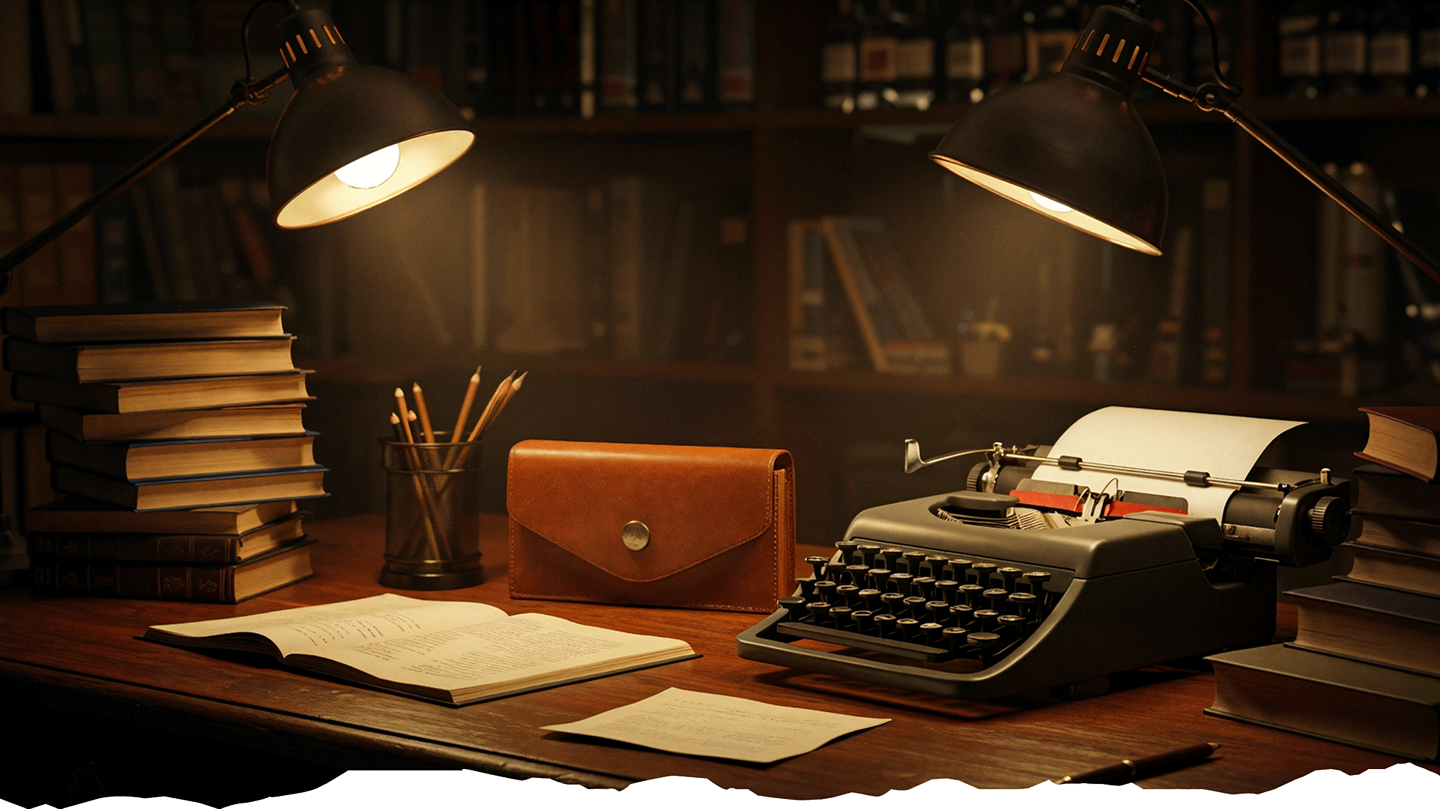
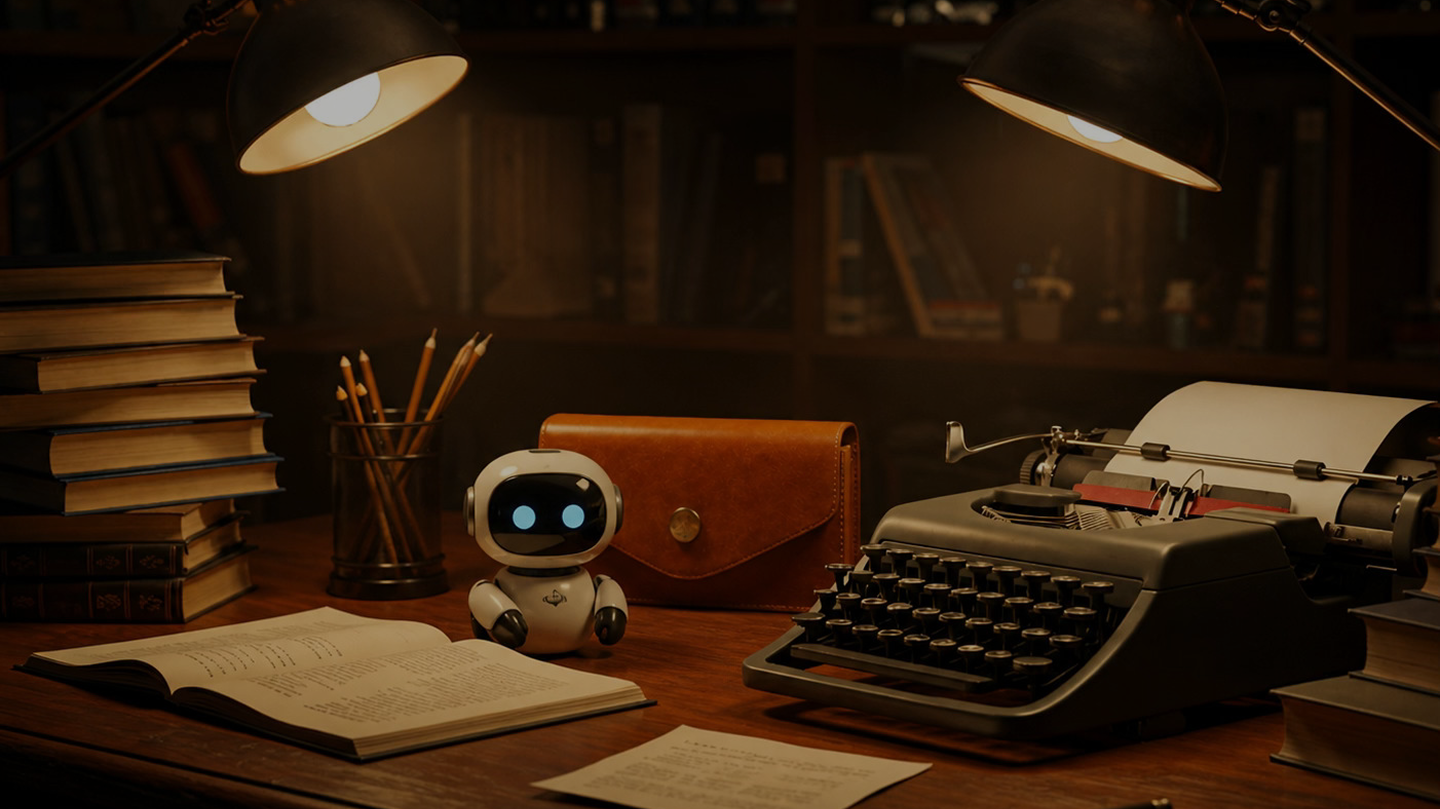
Updates

diff --git a/404.html b/404.html
@@ -176,8 +176,8 @@
         if (canonical) canonical.setAttribute("href", currentUrl);
       })();
     </script>
-    <script type="module" crossorigin src="/assets/index-DqFhm3mM.js"></script>
-    <link rel="stylesheet" crossorigin href="/assets/index-CtCVAtJx.css">
+    <script type="module" crossorigin src="/assets/index-DrxcV7wq.js"></script>
+    <link rel="stylesheet" crossorigin href="/assets/index-86hxumuY.css">
   </head>
   <body>
     <script>

diff --git a/index.html b/index.html
@@ -176,8 +176,8 @@
         if (canonical) canonical.setAttribute("href", currentUrl);
       })();
     </script>
-    <script type="module" crossorigin src="/assets/index-DqFhm3mM.js"></script>
-    <link rel="stylesheet" crossorigin href="/assets/index-CtCVAtJx.css">
+    <script type="module" crossorigin src="/assets/index-DrxcV7wq.js"></script>
+    <link rel="stylesheet" crossorigin href="/assets/index-86hxumuY.css">
   </head>
   <body>
     <div id="root"></div>

diff --git a/assets/index-86hxumuY.css b/assets/index-86hxumuY.css
@@ -1,0 +1,1 @@
+*,:before,:after{--tw-border-spacing-x: 0;--tw-border-spacing-y: 0;--tw-translate-x: 0;--tw-translate-y: 0;--tw-rotate: 0;--tw-skew-x: 0;--tw-skew-y: 0;--tw-scale-x: 1;--tw-scale-y: 1;--tw-pan-x: ;--tw-pan-y: ;--tw-pinch-zoom: ;--tw-scroll-snap-strictness: proximity;--tw-gradient-from-position: ;--tw-gradient-via-position: ;--tw-gradient-to-position: ;--tw-ordinal: ;--tw-slashed-zero: ;--tw-numeric-figure: ;--tw-numeric-spacing: ;--tw-numeric-fraction: ;--tw-ring-inset: ;--tw-ring-offset-width: 0px;--tw-ring-offset-color: #fff;--tw-ring-color: rgb(59 130 246 / .5);--tw-ring-offset-shadow: 0 0 #0000;--tw-ring-shadow: 0 0 #0000;--tw-shadow: 0 0 #0000;--tw-shadow-colored: 0 0 #0000;--tw-blur: ;--tw-brightness: ;--tw-contrast: ;--tw-grayscale: ;--tw-hue-rotate: ;--tw-invert: ;--tw-saturate: ;--tw-sepia: ;--tw-drop-shadow: ;--tw-backdrop-blur: ;--tw-backdrop-brightness: ;--tw-backdrop-contrast: ;--tw-backdrop-grayscale: ;--tw-backdrop-hue-rotate: ;--tw-backdrop-invert: ;--tw-backdrop-opacity: ;--tw-backdrop-saturate: ;--tw-backdrop-sepia: ;--tw-contain-size: ;--tw-contain-layout: ;--tw-contain-paint: ;--tw-contain-style: }::backdrop{--tw-border-spacing-x: 0;--tw-border-spacing-y: 0;--tw-translate-x: 0;--tw-translate-y: 0;--tw-rotate: 0;--tw-skew-x: 0;--tw-skew-y: 0;--tw-scale-x: 1;--tw-scale-y: 1;--tw-pan-x: ;--tw-pan-y: ;--tw-pinch-zoom: ;--tw-scroll-snap-strictness: proximity;--tw-gradient-from-position: ;--tw-gradient-via-position: ;--tw-gradient-to-position: ;--tw-ordinal: ;--tw-slashed-zero: ;--tw-numeric-figure: ;--tw-numeric-spacing: ;--tw-numeric-fraction: ;--tw-ring-inset: ;--tw-ring-offset-width: 0px;--tw-ring-offset-color: #fff;--tw-ring-color: rgb(59 130 246 / .5);--tw-ring-offset-shadow: 0 0 #0000;--tw-ring-shadow: 0 0 #0000;--tw-shadow: 0 0 #0000;--tw-shadow-colored: 0 0 #0000;--tw-blur: ;--tw-brightness: ;--tw-contrast: ;--tw-grayscale: ;--tw-hue-rotate: ;--tw-invert: ;--tw-saturate: ;--tw-sepia: ;--tw-drop-shadow: ;--tw-backdrop-blur: ;--tw-backdrop-brightness: ;--tw-backdrop-contrast: ;--tw-backdrop-grayscale: ;--tw-backdrop-hue-rotate: ;--tw-backdrop-invert: ;--tw-backdrop-opacity: ;--tw-backdrop-saturate: ;--tw-backdrop-sepia: ;--tw-contain-size: ;--tw-contain-layout: ;--tw-contain-paint: ;--tw-contain-style: }*,:before,:after{box-sizing:border-box;border-width:0;border-style:solid;border-color:#e5e7eb}:before,:after{--tw-content: ""}html,:host{line-height:1.5;-webkit-text-size-adjust:100%;-moz-tab-size:4;-o-tab-size:4;tab-size:4;font-family:ui-sans-serif,system-ui,sans-serif,"Apple Color Emoji","Segoe UI Emoji",Segoe UI Symbol,"Noto Color Emoji";font-feature-settings:normal;font-variation-settings:normal;-webkit-tap-highlight-color:transparent}body{margin:0;line-height:inherit}hr{height:0;color:inherit;border-top-width:1px}abbr:where([title]){-webkit-text-decoration:underline dotted;text-decoration:underline dotted}h1,h2,h3,h4,h5,h6{font-size:inherit;font-weight:inherit}a{color:inherit;text-decoration:inherit}b,strong{font-weight:bolder}code,kbd,samp,pre{font-family:ui-monospace,SFMono-Regular,Menlo,Monaco,Consolas,Liberation Mono,Courier New,monospace;font-feature-settings:normal;font-variation-settings:normal;font-size:1em}small{font-size:80%}sub,sup{font-size:75%;line-height:0;position:relative;vertical-align:baseline}sub{bottom:-.25em}sup{top:-.5em}table{text-indent:0;border-color:inherit;border-collapse:collapse}button,input,optgroup,select,textarea{font-family:inherit;font-feature-settings:inherit;font-variation-settings:inherit;font-size:100%;font-weight:inherit;line-height:inherit;letter-spacing:inherit;color:inherit;margin:0;padding:0}button,select{text-transform:none}button,input:where([type=button]),input:where([type=reset]),input:where([type=submit]){-webkit-appearance:button;background-color:transparent;background-image:none}:-moz-focusring{outline:auto}:-moz-ui-invalid{box-shadow:none}progress{vertical-align:baseline}::-webkit-inner-spin-button,::-webkit-outer-spin-button{height:auto}[type=search]{-webkit-appearance:textfield;outline-offset:-2px}::-webkit-search-decoration{-webkit-appearance:none}::-webkit-file-upload-button{-webkit-appearance:button;font:inherit}summary{display:list-item}blockquote,dl,dd,h1,h2,h3,h4,h5,h6,hr,figure,p,pre{margin:0}fieldset{margin:0;padding:0}legend{padding:0}ol,ul,menu{list-style:none;margin:0;padding:0}dialog{padding:0}textarea{resize:vertical}input::-moz-placeholder,textarea::-moz-placeholder{opacity:1;color:#9ca3af}input::placeholder,textarea::placeholder{opacity:1;color:#9ca3af}button,[role=button]{cursor:pointer}:disabled{cursor:default}img,svg,video,canvas,audio,iframe,embed,object{display:block;vertical-align:middle}img,video{max-width:100%;height:auto}[hidden]:where(:not([hidden=until-found])){display:none}.container{width:100%}@media(min-width:640px){.container{max-width:640px}}@media(min-width:768px){.container{max-width:768px}}@media(min-width:1024px){.container{max-width:1024px}}@media(min-width:1280px){.container{max-width:1280px}}@media(min-width:1536px){.container{max-width:1536px}}.pointer-events-none{pointer-events:none}.fixed{position:fixed}.absolute{position:absolute}.relative{position:relative}.inset-0{inset:0}.-right-4{right:-1rem}.bottom-0{bottom:0}.bottom-24{bottom:6rem}.left-0{left:0}.left-1\/2{left:50%}.right-0{right:0}.top-0{top:0}.top-1\/2{top:50%}.z-10{z-index:10}.z-20{z-index:20}.z-30{z-index:30}.z-40{z-index:40}.z-50{z-index:50}.mx-auto{margin-left:auto;margin-right:auto}.my-10{margin-top:2.5rem;margin-bottom:2.5rem}.my-24{margin-top:6rem;margin-bottom:6rem}.-mb-1{margin-bottom:-.25rem}.-mb-10{margin-bottom:-2.5rem}.-mt-1{margin-top:-.25rem}.-mt-\[120px\]{margin-top:-120px}.-mt-\[60px\]{margin-top:-60px}.mb-10{margin-bottom:2.5rem}.mb-16{margin-bottom:4rem}.mb-2{margin-bottom:.5rem}.mb-20{margin-bottom:5rem}.mb-4{margin-bottom:1rem}.mb-6{margin-bottom:1.5rem}.mb-8{margin-bottom:2rem}.mt-1{margin-top:.25rem}.mt-4{margin-top:1rem}.mt-auto{margin-top:auto}.inline-block{display:inline-block}.flex{display:flex}.grid{display:grid}.hidden{display:none}.h-1\/4{height:25%}.h-10{height:2.5rem}.h-16{height:4rem}.h-3{height:.75rem}.h-6{height:1.5rem}.h-8{height:2rem}.h-\[160px\]{height:160px}.h-\[900px\]{height:900px}.h-auto{height:auto}.h-full{height:100%}.max-h-\[150px\]{max-height:150px}.max-h-\[500px\]{max-height:500px}.max-h-\[50px\]{max-height:50px}.max-h-\[550px\]{max-height:550px}.min-h-screen{min-height:100vh}.w-1{width:.25rem}.w-10{width:2.5rem}.w-3{width:.75rem}.w-6{width:1.5rem}.w-8{width:2rem}.w-80{width:20rem}.w-\[150px\]{width:150px}.w-\[160px\]{width:160px}.w-\[600px\]{width:600px}.w-auto{width:auto}.w-full{width:100%}.max-w-2xl{max-width:42rem}.max-w-4xl{max-width:56rem}.max-w-6xl{max-width:72rem}.max-w-7xl{max-width:80rem}.max-w-\[100px\]{max-width:100px}.max-w-\[150px\]{max-width:150px}.max-w-\[450px\]{max-width:450px}.max-w-full{max-width:100%}.max-w-lg{max-width:32rem}.max-w-md{max-width:28rem}.flex-1{flex:1 1 0%}.flex-shrink-0{flex-shrink:0}.-translate-x-1\/2{--tw-translate-x: -50%;transform:translate(var(--tw-translate-x),var(--tw-translate-y)) rotate(var(--tw-rotate)) skew(var(--tw-skew-x)) skewY(var(--tw-skew-y)) scaleX(var(--tw-scale-x)) scaleY(var(--tw-scale-y))}.-translate-x-full{--tw-translate-x: -100%;transform:translate(var(--tw-translate-x),var(--tw-translate-y)) rotate(var(--tw-rotate)) skew(var(--tw-skew-x)) skewY(var(--tw-skew-y)) scaleX(var(--tw-scale-x)) scaleY(var(--tw-scale-y))}.-translate-y-1\/2{--tw-translate-y: -50%;transform:translate(var(--tw-translate-x),var(--tw-translate-y)) rotate(var(--tw-rotate)) skew(var(--tw-skew-x)) skewY(var(--tw-skew-y)) scaleX(var(--tw-scale-x)) scaleY(var(--tw-scale-y))}.translate-x-0{--tw-translate-x: 0px;transform:translate(var(--tw-translate-x),var(--tw-translate-y)) rotate(var(--tw-rotate)) skew(var(--tw-skew-x)) skewY(var(--tw-skew-y)) scaleX(var(--tw-scale-x)) scaleY(var(--tw-scale-y))}.translate-x-full{--tw-translate-x: 100%;transform:translate(var(--tw-translate-x),var(--tw-translate-y)) rotate(var(--tw-rotate)) skew(var(--tw-skew-x)) skewY(var(--tw-skew-y)) scaleX(var(--tw-scale-x)) scaleY(var(--tw-scale-y))}.-rotate-2{--tw-rotate: -2deg;transform:translate(var(--tw-translate-x),var(--tw-translate-y)) rotate(var(--tw-rotate)) skew(var(--tw-skew-x)) skewY(var(--tw-skew-y)) scaleX(var(--tw-scale-x)) scaleY(var(--tw-scale-y))}.transform{transform:translate(var(--tw-translate-x),var(--tw-translate-y)) rotate(var(--tw-rotate)) skew(var(--tw-skew-x)) skewY(var(--tw-skew-y)) scaleX(var(--tw-scale-x)) scaleY(var(--tw-scale-y))}.grid-cols-1{grid-template-columns:repeat(1,minmax(0,1fr))}.grid-cols-2{grid-template-columns:repeat(2,minmax(0,1fr))}.flex-col{flex-direction:column}.flex-wrap{flex-wrap:wrap}.items-start{align-items:flex-start}.items-center{align-items:center}.justify-end{justify-content:flex-end}.justify-center{justify-content:center}.justify-between{justify-content:space-between}.gap-12{gap:3rem}.gap-2{gap:.5rem}.gap-24{gap:6rem}.gap-4{gap:1rem}.gap-6{gap:1.5rem}.gap-8{gap:2rem}.space-y-4>:not([hidden])~:not([hidden]){--tw-space-y-reverse: 0;margin-top:calc(1rem * calc(1 - var(--tw-space-y-reverse)));margin-bottom:calc(1rem * var(--tw-space-y-reverse))}.overflow-hidden{overflow:hidden}.break-all{word-break:break-all}.rounded-full{border-radius:9999px}.rounded-lg{border-radius:.5rem}.border-b-2{border-bottom-width:2px}.border-s-2{border-inline-start-width:2px}.border-s-4{border-inline-start-width:4px}.border-t{border-top-width:1px}.border-t-0{border-top-width:0px}.border-black{--tw-border-opacity: 1;border-color:rgb(0 0 0 / var(--tw-border-opacity, 1))}.border-white{--tw-border-opacity: 1;border-color:rgb(255 255 255 / var(--tw-border-opacity, 1))}.border-opacity-20{--tw-border-opacity: .2}.bg-\[\#964B00\]{--tw-bg-opacity: 1;background-color:rgb(150 75 0 / var(--tw-bg-opacity, 1))}.bg-black{--tw-bg-opacity: 1;background-color:rgb(0 0 0 / var(--tw-bg-opacity, 1))}.bg-transparent{background-color:transparent}.bg-white{--tw-bg-opacity: 1;background-color:rgb(255 255 255 / var(--tw-bg-opacity, 1))}.bg-white\/50{background-color:#ffffff80}.bg-opacity-20{--tw-bg-opacity: .2}.bg-opacity-50{--tw-bg-opacity: .5}.bg-gradient-to-b{background-image:linear-gradient(to bottom,var(--tw-gradient-stops))}.from-black{--tw-gradient-from: #000 var(--tw-gradient-from-position);--tw-gradient-to: rgb(0 0 0 / 0) var(--tw-gradient-to-position);--tw-gradient-stops: var(--tw-gradient-from), var(--tw-gradient-to)}.to-transparent{--tw-gradient-to: transparent var(--tw-gradient-to-position)}.object-contain{-o-object-fit:contain;object-fit:contain}.object-cover{-o-object-fit:cover;object-fit:cover}.p-2{padding:.5rem}.p-6{padding:1.5rem}.px-24{padding-left:6rem;padding-right:6rem}.px-3{padding-left:.75rem;padding-right:.75rem}.px-4{padding-left:1rem;padding-right:1rem}.px-8{padding-left:2rem;padding-right:2rem}.py-0{padding-top:0;padding-bottom:0}.py-1{padding-top:.25rem;padding-bottom:.25rem}.py-12{padding-top:3rem;padding-bottom:3rem}.py-16{padding-top:4rem;padding-bottom:4rem}.py-2{padding-top:.5rem;padding-bottom:.5rem}.py-36{padding-top:9rem;padding-bottom:9rem}.py-72{padding-top:18rem;padding-bottom:18rem}.py-8{padding-top:2rem;padding-bottom:2rem}.pb-16{padding-bottom:4rem}.pb-8{padding-bottom:2rem}.pb-\[25rem\]{padding-bottom:25rem}.pb-\[32rem\]{padding-bottom:32rem}.pb-\[350px\]{padding-bottom:350px}.pb-\[35rem\]{padding-bottom:35rem}.pb-\[38rem\]{padding-bottom:38rem}.ps-4{padding-inline-start:1rem}.pt-10{padding-top:2.5rem}.pt-16{padding-top:4rem}.pt-20{padding-top:5rem}.pt-28{padding-top:7rem}.pt-4{padding-top:1rem}.pt-6{padding-top:1.5rem}.pt-8{padding-top:2rem}.text-center{text-align:center}.font-achemost{font-family:Achemost,sans-serif}.font-arsian{font-family:Arsian,sans-serif}.font-bukra{font-family:Bukra,sans-serif}.font-montserrat{font-family:Montserrat,sans-serif}.text-2xl{font-size:1.5rem;line-height:2rem}.text-3xl{font-size:1.875rem;line-height:2.25rem}.text-4xl{font-size:2.25rem;line-height:2.5rem}.text-6xl{font-size:3.75rem;line-height:1}.text-lg{font-size:1.125rem;line-height:1.75rem}.text-sm{font-size:.875rem;line-height:1.25rem}.text-xl{font-size:1.25rem;line-height:1.75rem}.text-xs{font-size:.75rem;line-height:1rem}.font-bold{font-weight:700}.font-light{font-weight:300}.font-medium{font-weight:500}.font-normal{font-weight:400}.font-semibold{font-weight:600}.uppercase{text-transform:uppercase}.tabular-nums{--tw-numeric-spacing: tabular-nums;font-variant-numeric:var(--tw-ordinal) var(--tw-slashed-zero) var(--tw-numeric-figure) var(--tw-numeric-spacing) var(--tw-numeric-fraction)}.text-\[\#FFF000\]{--tw-text-opacity: 1;color:rgb(255 240 0 / var(--tw-text-opacity, 1))}.text-\[\#FFF100\]{--tw-text-opacity: 1;color:rgb(255 241 0 / var(--tw-text-opacity, 1))}.text-black{--tw-text-opacity: 1;color:rgb(0 0 0 / var(--tw-text-opacity, 1))}.text-white{--tw-text-opacity: 1;color:rgb(255 255 255 / var(--tw-text-opacity, 1))}.opacity-0{opacity:0}.opacity-100{opacity:1}.opacity-50{opacity:.5}.transition-all{transition-property:all;transition-timing-function:cubic-bezier(.4,0,.2,1);transition-duration:.15s}.transition-colors{transition-property:color,background-color,border-color,text-decoration-color,fill,stroke;transition-timing-function:cubic-bezier(.4,0,.2,1);transition-duration:.15s}.transition-opacity{transition-property:opacity;transition-timing-function:cubic-bezier(.4,0,.2,1);transition-duration:.15s}.transition-transform{transition-property:transform;transition-timing-function:cubic-bezier(.4,0,.2,1);transition-duration:.15s}.duration-1000{transition-duration:1s}.duration-300{transition-duration:.3s}.ease-in-out{transition-timing-function:cubic-bezier(.4,0,.2,1)}html{scroll-behavior:smooth}.textured-paper{background-color:#f5e6d3;background-image:repeating-linear-gradient(0deg,transparent,transparent 2px,rgba(139,111,71,.03) 2px,rgba(139,111,71,.03) 4px),repeating-linear-gradient(90deg,transparent,transparent 2px,rgba(139,111,71,.03) 2px,rgba(139,111,71,.03) 4px);position:relative}.textured-paper:before{content:"";position:absolute;inset:0;background-image:radial-gradient(circle at 1px 1px,rgba(139,111,71,.15) 1px,transparent 0);background-size:20px 20px;pointer-events:none}@font-face{font-family:Achemost;src:url(/assets/Achemost-BF64d1e10bd2459-B8EFFo7Q.otf) format("opentype");font-weight:400;font-style:normal;font-display:swap}@font-face{font-family:Montserrat;src:url(/assets/Montserrat-Regular-sZls3Q25.otf) format("opentype");font-weight:400;font-style:normal;font-display:swap}@font-face{font-family:Montserrat;src:url(/assets/Montserrat-Medium-5C8I5e8z.otf) format("opentype");font-weight:500;font-style:normal;font-display:swap}@font-face{font-family:Montserrat;src:url(/assets/Montserrat-Bold-Dmddk12W.otf) format("opentype");font-weight:700;font-style:normal;font-display:swap}@font-face{font-family:Montserrat;src:url(/assets/Montserrat-ExtraBold-DoAa1KyB.otf) format("opentype");font-weight:800;font-style:normal;font-display:swap}@font-face{font-family:Montserrat;src:url(/assets/Montserrat-Black-CfMQa8Pe.otf) format("opentype");font-weight:900;font-style:normal;font-display:swap}@font-face{font-family:Bukra;src:url(/assets/29ltbukraregular-DJBqFTue.otf) format("opentype");font-weight:400;font-style:normal;font-display:swap}@font-face{font-family:Arsian;src:url(/assets/Arsian-wessam-A-DAf9pDjl.ttf) format("truetype");font-weight:400;font-style:normal;font-display:swap}.font-bukra{line-height:2!important}.hover\:bg-white\/75:hover{background-color:#ffffffbf}.hover\:text-\[\#1a2b4a\]:hover{--tw-text-opacity: 1;color:rgb(26 43 74 / var(--tw-text-opacity, 1))}.hover\:text-\[\#FFF100\]:hover{--tw-text-opacity: 1;color:rgb(255 241 0 / var(--tw-text-opacity, 1))}.focus\:outline-none:focus{outline:2px solid transparent;outline-offset:2px}@media(min-width:640px){.sm\:flex-row{flex-direction:row}.sm\:gap-4{gap:1rem}.sm\:py-20{padding-top:5rem;padding-bottom:5rem}.sm\:pb-\[15rem\]{padding-bottom:15rem}.sm\:text-4xl{font-size:2.25rem;line-height:2.5rem}.sm\:text-5xl{font-size:3rem;line-height:1}.sm\:text-base{font-size:1rem;line-height:1.5rem}.sm\:text-sm{font-size:.875rem;line-height:1.25rem}.sm\:text-xl{font-size:1.25rem;line-height:1.75rem}}@media(min-width:768px){.md\:left-\[-10\%\]{left:-10%}.md\:order-2{order:2}.md\:mx-0{margin-left:0;margin-right:0}.md\:-mt-\[120px\]{margin-top:-120px}.md\:-mt-\[80px\]{margin-top:-80px}.md\:mb-10{margin-bottom:2.5rem}.md\:mb-20{margin-bottom:5rem}.md\:mb-4{margin-bottom:1rem}.md\:mb-6{margin-bottom:1.5rem}.md\:mb-8{margin-bottom:2rem}.md\:block{display:block}.md\:max-h-\[200px\]{max-height:200px}.md\:w-2\/3{width:66.666667%}.md\:w-\[120\%\]{width:120%}.md\:w-\[200px\]{width:200px}.md\:max-w-2xl{max-width:42rem}.md\:max-w-6xl{max-width:72rem}.md\:max-w-\[200px\]{max-width:200px}.md\:grid-cols-2{grid-template-columns:repeat(2,minmax(0,1fr))}.md\:grid-cols-3{grid-template-columns:repeat(3,minmax(0,1fr))}.md\:grid-cols-4{grid-template-columns:repeat(4,minmax(0,1fr))}.md\:flex-row{flex-direction:row}.md\:items-start{align-items:flex-start}.md\:justify-start{justify-content:flex-start}.md\:gap-4{gap:1rem}.md\:gap-8{gap:2rem}.md\:px-24{padding-left:6rem;padding-right:6rem}.md\:py-28{padding-top:7rem;padding-bottom:7rem}.md\:pb-12{padding-bottom:3rem}.md\:pb-36{padding-bottom:9rem}.md\:pb-\[25rem\]{padding-bottom:25rem}.md\:pt-0{padding-top:0}.md\:pt-16{padding-top:4rem}.md\:pt-32{padding-top:8rem}.md\:pt-5{padding-top:1.25rem}.md\:pt-8{padding-top:2rem}.md\:pt-\[80px\]{padding-top:80px}.md\:text-left{text-align:left}.md\:text-2xl{font-size:1.5rem;line-height:2rem}.md\:text-3xl{font-size:1.875rem;line-height:2.25rem}.md\:text-4xl{font-size:2.25rem;line-height:2.5rem}.md\:text-6xl{font-size:3.75rem;line-height:1}.md\:text-7xl{font-size:4.5rem;line-height:1}.md\:text-lg{font-size:1.125rem;line-height:1.75rem}.md\:text-xl{font-size:1.25rem;line-height:1.75rem}}@media(min-width:1024px){.lg\:block{display:block}.lg\:flex{display:flex}.lg\:hidden{display:none}.lg\:h-\[100px\]{height:100px}.lg\:w-\[200px\]{width:200px}.lg\:flex-row{flex-direction:row}.lg\:items-start{align-items:flex-start}.lg\:gap-8{gap:2rem}.lg\:py-36{padding-top:9rem;padding-bottom:9rem}.lg\:pb-12{padding-bottom:3rem}.lg\:pb-40{padding-bottom:10rem}.lg\:text-2xl{font-size:1.5rem;line-height:2rem}.lg\:text-4xl{font-size:2.25rem;line-height:2.5rem}.lg\:text-6xl{font-size:3.75rem;line-height:1}.lg\:text-8xl{font-size:6rem;line-height:1}.lg\:text-9xl{font-size:8rem;line-height:1}.lg\:text-xl{font-size:1.25rem;line-height:1.75rem}}@media(min-width:1280px){.xl\:text-3xl{font-size:1.875rem;line-height:2.25rem}}[data-aos][data-aos][data-aos-duration="50"],body[data-aos-duration="50"] [data-aos]{transition-duration:50ms}[data-aos][data-aos][data-aos-delay="50"],body[data-aos-delay="50"] [data-aos]{transition-delay:0}[data-aos][data-aos][data-aos-delay="50"].aos-animate,body[data-aos-delay="50"] [data-aos].aos-animate{transition-delay:50ms}[data-aos][data-aos][data-aos-duration="100"],body[data-aos-duration="100"] [data-aos]{transition-duration:.1s}[data-aos][data-aos][data-aos-delay="100"],body[data-aos-delay="100"] [data-aos]{transition-delay:0}[data-aos][data-aos][data-aos-delay="100"].aos-animate,body[data-aos-delay="100"] [data-aos].aos-animate{transition-delay:.1s}[data-aos][data-aos][data-aos-duration="150"],body[data-aos-duration="150"] [data-aos]{transition-duration:.15s}[data-aos][data-aos][data-aos-delay="150"],body[data-aos-delay="150"] [data-aos]{transition-delay:0}[data-aos][data-aos][data-aos-delay="150"].aos-animate,body[data-aos-delay="150"] [data-aos].aos-animate{transition-delay:.15s}[data-aos][data-aos][data-aos-duration="200"],body[data-aos-duration="200"] [data-aos]{transition-duration:.2s}[data-aos][data-aos][data-aos-delay="200"],body[data-aos-delay="200"] [data-aos]{transition-delay:0}[data-aos][data-aos][data-aos-delay="200"].aos-animate,body[data-aos-delay="200"] [data-aos].aos-animate{transition-delay:.2s}[data-aos][data-aos][data-aos-duration="250"],body[data-aos-duration="250"] [data-aos]{transition-duration:.25s}[data-aos][data-aos][data-aos-delay="250"],body[data-aos-delay="250"] [data-aos]{transition-delay:0}[data-aos][data-aos][data-aos-delay="250"].aos-animate,body[data-aos-delay="250"] [data-aos].aos-animate{transition-delay:.25s}[data-aos][data-aos][data-aos-duration="300"],body[data-aos-duration="300"] [data-aos]{transition-duration:.3s}[data-aos][data-aos][data-aos-delay="300"],body[data-aos-delay="300"] [data-aos]{transition-delay:0}[data-aos][data-aos][data-aos-delay="300"].aos-animate,body[data-aos-delay="300"] [data-aos].aos-animate{transition-delay:.3s}[data-aos][data-aos][data-aos-duration="350"],body[data-aos-duration="350"] [data-aos]{transition-duration:.35s}[data-aos][data-aos][data-aos-delay="350"],body[data-aos-delay="350"] [data-aos]{transition-delay:0}[data-aos][data-aos][data-aos-delay="350"].aos-animate,body[data-aos-delay="350"] [data-aos].aos-animate{transition-delay:.35s}[data-aos][data-aos][data-aos-duration="400"],body[data-aos-duration="400"] [data-aos]{transition-duration:.4s}[data-aos][data-aos][data-aos-delay="400"],body[data-aos-delay="400"] [data-aos]{transition-delay:0}[data-aos][data-aos][data-aos-delay="400"].aos-animate,body[data-aos-delay="400"] [data-aos].aos-animate{transition-delay:.4s}[data-aos][data-aos][data-aos-duration="450"],body[data-aos-duration="450"] [data-aos]{transition-duration:.45s}[data-aos][data-aos][data-aos-delay="450"],body[data-aos-delay="450"] [data-aos]{transition-delay:0}[data-aos][data-aos][data-aos-delay="450"].aos-animate,body[data-aos-delay="450"] [data-aos].aos-animate{transition-delay:.45s}[data-aos][data-aos][data-aos-duration="500"],body[data-aos-duration="500"] [data-aos]{transition-duration:.5s}[data-aos][data-aos][data-aos-delay="500"],body[data-aos-delay="500"] [data-aos]{transition-delay:0}[data-aos][data-aos][data-aos-delay="500"].aos-animate,body[data-aos-delay="500"] [data-aos].aos-animate{transition-delay:.5s}[data-aos][data-aos][data-aos-duration="550"],body[data-aos-duration="550"] [data-aos]{transition-duration:.55s}[data-aos][data-aos][data-aos-delay="550"],body[data-aos-delay="550"] [data-aos]{transition-delay:0}[data-aos][data-aos][data-aos-delay="550"].aos-animate,body[data-aos-delay="550"] [data-aos].aos-animate{transition-delay:.55s}[data-aos][data-aos][data-aos-duration="600"],body[data-aos-duration="600"] [data-aos]{transition-duration:.6s}[data-aos][data-aos][data-aos-delay="600"],body[data-aos-delay="600"] [data-aos]{transition-delay:0}[data-aos][data-aos][data-aos-delay="600"].aos-animate,body[data-aos-delay="600"] [data-aos].aos-animate{transition-delay:.6s}[data-aos][data-aos][data-aos-duration="650"],body[data-aos-duration="650"] [data-aos]{transition-duration:.65s}[data-aos][data-aos][data-aos-delay="650"],body[data-aos-delay="650"] [data-aos]{transition-delay:0}[data-aos][data-aos][data-aos-delay="650"].aos-animate,body[data-aos-delay="650"] [data-aos].aos-animate{transition-delay:.65s}[data-aos][data-aos][data-aos-duration="700"],body[data-aos-duration="700"] [data-aos]{transition-duration:.7s}[data-aos][data-aos][data-aos-delay="700"],body[data-aos-delay="700"] [data-aos]{transition-delay:0}[data-aos][data-aos][data-aos-delay="700"].aos-animate,body[data-aos-delay="700"] [data-aos].aos-animate{transition-delay:.7s}[data-aos][data-aos][data-aos-duration="750"],body[data-aos-duration="750"] [data-aos]{transition-duration:.75s}[data-aos][data-aos][data-aos-delay="750"],body[data-aos-delay="750"] [data-aos]{transition-delay:0}[data-aos][data-aos][data-aos-delay="750"].aos-animate,body[data-aos-delay="750"] [data-aos].aos-animate{transition-delay:.75s}[data-aos][data-aos][data-aos-duration="800"],body[data-aos-duration="800"] [data-aos]{transition-duration:.8s}[data-aos][data-aos][data-aos-delay="800"],body[data-aos-delay="800"] [data-aos]{transition-delay:0}[data-aos][data-aos][data-aos-delay="800"].aos-animate,body[data-aos-delay="800"] [data-aos].aos-animate{transition-delay:.8s}[data-aos][data-aos][data-aos-duration="850"],body[data-aos-duration="850"] [data-aos]{transition-duration:.85s}[data-aos][data-aos][data-aos-delay="850"],body[data-aos-delay="850"] [data-aos]{transition-delay:0}[data-aos][data-aos][data-aos-delay="850"].aos-animate,body[data-aos-delay="850"] [data-aos].aos-animate{transition-delay:.85s}[data-aos][data-aos][data-aos-duration="900"],body[data-aos-duration="900"] [data-aos]{transition-duration:.9s}[data-aos][data-aos][data-aos-delay="900"],body[data-aos-delay="900"] [data-aos]{transition-delay:0}[data-aos][data-aos][data-aos-delay="900"].aos-animate,body[data-aos-delay="900"] [data-aos].aos-animate{transition-delay:.9s}[data-aos][data-aos][data-aos-duration="950"],body[data-aos-duration="950"] [data-aos]{transition-duration:.95s}[data-aos][data-aos][data-aos-delay="950"],body[data-aos-delay="950"] [data-aos]{transition-delay:0}[data-aos][data-aos][data-aos-delay="950"].aos-animate,body[data-aos-delay="950"] [data-aos].aos-animate{transition-delay:.95s}[data-aos][data-aos][data-aos-duration="1000"],body[data-aos-duration="1000"] [data-aos]{transition-duration:1s}[data-aos][data-aos][data-aos-delay="1000"],body[data-aos-delay="1000"] [data-aos]{transition-delay:0}[data-aos][data-aos][data-aos-delay="1000"].aos-animate,body[data-aos-delay="1000"] [data-aos].aos-animate{transition-delay:1s}[data-aos][data-aos][data-aos-duration="1050"],body[data-aos-duration="1050"] [data-aos]{transition-duration:1.05s}[data-aos][data-aos][data-aos-delay="1050"],body[data-aos-delay="1050"] [data-aos]{transition-delay:0}[data-aos][data-aos][data-aos-delay="1050"].aos-animate,body[data-aos-delay="1050"] [data-aos].aos-animate{transition-delay:1.05s}[data-aos][data-aos][data-aos-duration="1100"],body[data-aos-duration="1100"] [data-aos]{transition-duration:1.1s}[data-aos][data-aos][data-aos-delay="1100"],body[data-aos-delay="1100"] [data-aos]{transition-delay:0}[data-aos][data-aos][data-aos-delay="1100"].aos-animate,body[data-aos-delay="1100"] [data-aos].aos-animate{transition-delay:1.1s}[data-aos][data-aos][data-aos-duration="1150"],body[data-aos-duration="1150"] [data-aos]{transition-duration:1.15s}[data-aos][data-aos][data-aos-delay="1150"],body[data-aos-delay="1150"] [data-aos]{transition-delay:0}[data-aos][data-aos][data-aos-delay="1150"].aos-animate,body[data-aos-delay="1150"] [data-aos].aos-animate{transition-delay:1.15s}[data-aos][data-aos][data-aos-duration="1200"],body[data-aos-duration="1200"] [data-aos]{transition-duration:1.2s}[data-aos][data-aos][data-aos-delay="1200"],body[data-aos-delay="1200"] [data-aos]{transition-delay:0}[data-aos][data-aos][data-aos-delay="1200"].aos-animate,body[data-aos-delay="1200"] [data-aos].aos-animate{transition-delay:1.2s}[data-aos][data-aos][data-aos-duration="1250"],body[data-aos-duration="1250"] [data-aos]{transition-duration:1.25s}[data-aos][data-aos][data-aos-delay="1250"],body[data-aos-delay="1250"] [data-aos]{transition-delay:0}[data-aos][data-aos][data-aos-delay="1250"].aos-animate,body[data-aos-delay="1250"] [data-aos].aos-animate{transition-delay:1.25s}[data-aos][data-aos][data-aos-duration="1300"],body[data-aos-duration="1300"] [data-aos]{transition-duration:1.3s}[data-aos][data-aos][data-aos-delay="1300"],body[data-aos-delay="1300"] [data-aos]{transition-delay:0}[data-aos][data-aos][data-aos-delay="1300"].aos-animate,body[data-aos-delay="1300"] [data-aos].aos-animate{transition-delay:1.3s}[data-aos][data-aos][data-aos-duration="1350"],body[data-aos-duration="1350"] [data-aos]{transition-duration:1.35s}[data-aos][data-aos][data-aos-delay="1350"],body[data-aos-delay="1350"] [data-aos]{transition-delay:0}[data-aos][data-aos][data-aos-delay="1350"].aos-animate,body[data-aos-delay="1350"] [data-aos].aos-animate{transition-delay:1.35s}[data-aos][data-aos][data-aos-duration="1400"],body[data-aos-duration="1400"] [data-aos]{transition-duration:1.4s}[data-aos][data-aos][data-aos-delay="1400"],body[data-aos-delay="1400"] [data-aos]{transition-delay:0}[data-aos][data-aos][data-aos-delay="1400"].aos-animate,body[data-aos-delay="1400"] [data-aos].aos-animate{transition-delay:1.4s}[data-aos][data-aos][data-aos-duration="1450"],body[data-aos-duration="1450"] [data-aos]{transition-duration:1.45s}[data-aos][data-aos][data-aos-delay="1450"],body[data-aos-delay="1450"] [data-aos]{transition-delay:0}[data-aos][data-aos][data-aos-delay="1450"].aos-animate,body[data-aos-delay="1450"] [data-aos].aos-animate{transition-delay:1.45s}[data-aos][data-aos][data-aos-duration="1500"],body[data-aos-duration="1500"] [data-aos]{transition-duration:1.5s}[data-aos][data-aos][data-aos-delay="1500"],body[data-aos-delay="1500"] [data-aos]{transition-delay:0}[data-aos][data-aos][data-aos-delay="1500"].aos-animate,body[data-aos-delay="1500"] [data-aos].aos-animate{transition-delay:1.5s}[data-aos][data-aos][data-aos-duration="1550"],body[data-aos-duration="1550"] [data-aos]{transition-duration:1.55s}[data-aos][data-aos][data-aos-delay="1550"],body[data-aos-delay="1550"] [data-aos]{transition-delay:0}[data-aos][data-aos][data-aos-delay="1550"].aos-animate,body[data-aos-delay="1550"] [data-aos].aos-animate{transition-delay:1.55s}[data-aos][data-aos][data-aos-duration="1600"],body[data-aos-duration="1600"] [data-aos]{transition-duration:1.6s}[data-aos][data-aos][data-aos-delay="1600"],body[data-aos-delay="1600"] [data-aos]{transition-delay:0}[data-aos][data-aos][data-aos-delay="1600"].aos-animate,body[data-aos-delay="1600"] [data-aos].aos-animate{transition-delay:1.6s}[data-aos][data-aos][data-aos-duration="1650"],body[data-aos-duration="1650"] [data-aos]{transition-duration:1.65s}[data-aos][data-aos][data-aos-delay="1650"],body[data-aos-delay="1650"] [data-aos]{transition-delay:0}[data-aos][data-aos][data-aos-delay="1650"].aos-animate,body[data-aos-delay="1650"] [data-aos].aos-animate{transition-delay:1.65s}[data-aos][data-aos][data-aos-duration="1700"],body[data-aos-duration="1700"] [data-aos]{transition-duration:1.7s}[data-aos][data-aos][data-aos-delay="1700"],body[data-aos-delay="1700"] [data-aos]{transition-delay:0}[data-aos][data-aos][data-aos-delay="1700"].aos-animate,body[data-aos-delay="1700"] [data-aos].aos-animate{transition-delay:1.7s}[data-aos][data-aos][data-aos-duration="1750"],body[data-aos-duration="1750"] [data-aos]{transition-duration:1.75s}[data-aos][data-aos][data-aos-delay="1750"],body[data-aos-delay="1750"] [data-aos]{transition-delay:0}[data-aos][data-aos][data-aos-delay="1750"].aos-animate,body[data-aos-delay="1750"] [data-aos].aos-animate{transition-delay:1.75s}[data-aos][data-aos][data-aos-duration="1800"],body[data-aos-duration="1800"] [data-aos]{transition-duration:1.8s}[data-aos][data-aos][data-aos-delay="1800"],body[data-aos-delay="1800"] [data-aos]{transition-delay:0}[data-aos][data-aos][data-aos-delay="1800"].aos-animate,body[data-aos-delay="1800"] [data-aos].aos-animate{transition-delay:1.8s}[data-aos][data-aos][data-aos-duration="1850"],body[data-aos-duration="1850"] [data-aos]{transition-duration:1.85s}[data-aos][data-aos][data-aos-delay="1850"],body[data-aos-delay="1850"] [data-aos]{transition-delay:0}[data-aos][data-aos][data-aos-delay="1850"].aos-animate,body[data-aos-delay="1850"] [data-aos].aos-animate{transition-delay:1.85s}[data-aos][data-aos][data-aos-duration="1900"],body[data-aos-duration="1900"] [data-aos]{transition-duration:1.9s}[data-aos][data-aos][data-aos-delay="1900"],body[data-aos-delay="1900"] [data-aos]{transition-delay:0}[data-aos][data-aos][data-aos-delay="1900"].aos-animate,body[data-aos-delay="1900"] [data-aos].aos-animate{transition-delay:1.9s}[data-aos][data-aos][data-aos-duration="1950"],body[data-aos-duration="1950"] [data-aos]{transition-duration:1.95s}[data-aos][data-aos][data-aos-delay="1950"],body[data-aos-delay="1950"] [data-aos]{transition-delay:0}[data-aos][data-aos][data-aos-delay="1950"].aos-animate,body[data-aos-delay="1950"] [data-aos].aos-animate{transition-delay:1.95s}[data-aos][data-aos][data-aos-duration="2000"],body[data-aos-duration="2000"] [data-aos]{transition-duration:2s}[data-aos][data-aos][data-aos-delay="2000"],body[data-aos-delay="2000"] [data-aos]{transition-delay:0}[data-aos][data-aos][data-aos-delay="2000"].aos-animate,body[data-aos-delay="2000"] [data-aos].aos-animate{transition-delay:2s}[data-aos][data-aos][data-aos-duration="2050"],body[data-aos-duration="2050"] [data-aos]{transition-duration:2.05s}[data-aos][data-aos][data-aos-delay="2050"],body[data-aos-delay="2050"] [data-aos]{transition-delay:0}[data-aos][data-aos][data-aos-delay="2050"].aos-animate,body[data-aos-delay="2050"] [data-aos].aos-animate{transition-delay:2.05s}[data-aos][data-aos][data-aos-duration="2100"],body[data-aos-duration="2100"] [data-aos]{transition-duration:2.1s}[data-aos][data-aos][data-aos-delay="2100"],body[data-aos-delay="2100"] [data-aos]{transition-delay:0}[data-aos][data-aos][data-aos-delay="2100"].aos-animate,body[data-aos-delay="2100"] [data-aos].aos-animate{transition-delay:2.1s}[data-aos][data-aos][data-aos-duration="2150"],body[data-aos-duration="2150"] [data-aos]{transition-duration:2.15s}[data-aos][data-aos][data-aos-delay="2150"],body[data-aos-delay="2150"] [data-aos]{transition-delay:0}[data-aos][data-aos][data-aos-delay="2150"].aos-animate,body[data-aos-delay="2150"] [data-aos].aos-animate{transition-delay:2.15s}[data-aos][data-aos][data-aos-duration="2200"],body[data-aos-duration="2200"] [data-aos]{transition-duration:2.2s}[data-aos][data-aos][data-aos-delay="2200"],body[data-aos-delay="2200"] [data-aos]{transition-delay:0}[data-aos][data-aos][data-aos-delay="2200"].aos-animate,body[data-aos-delay="2200"] [data-aos].aos-animate{transition-delay:2.2s}[data-aos][data-aos][data-aos-duration="2250"],body[data-aos-duration="2250"] [data-aos]{transition-duration:2.25s}[data-aos][data-aos][data-aos-delay="2250"],body[data-aos-delay="2250"] [data-aos]{transition-delay:0}[data-aos][data-aos][data-aos-delay="2250"].aos-animate,body[data-aos-delay="2250"] [data-aos].aos-animate{transition-delay:2.25s}[data-aos][data-aos][data-aos-duration="2300"],body[data-aos-duration="2300"] [data-aos]{transition-duration:2.3s}[data-aos][data-aos][data-aos-delay="2300"],body[data-aos-delay="2300"] [data-aos]{transition-delay:0}[data-aos][data-aos][data-aos-delay="2300"].aos-animate,body[data-aos-delay="2300"] [data-aos].aos-animate{transition-delay:2.3s}[data-aos][data-aos][data-aos-duration="2350"],body[data-aos-duration="2350"] [data-aos]{transition-duration:2.35s}[data-aos][data-aos][data-aos-delay="2350"],body[data-aos-delay="2350"] [data-aos]{transition-delay:0}[data-aos][data-aos][data-aos-delay="2350"].aos-animate,body[data-aos-delay="2350"] [data-aos].aos-animate{transition-delay:2.35s}[data-aos][data-aos][data-aos-duration="2400"],body[data-aos-duration="2400"] [data-aos]{transition-duration:2.4s}[data-aos][data-aos][data-aos-delay="2400"],body[data-aos-delay="2400"] [data-aos]{transition-delay:0}[data-aos][data-aos][data-aos-delay="2400"].aos-animate,body[data-aos-delay="2400"] [data-aos].aos-animate{transition-delay:2.4s}[data-aos][data-aos][data-aos-duration="2450"],body[data-aos-duration="2450"] [data-aos]{transition-duration:2.45s}[data-aos][data-aos][data-aos-delay="2450"],body[data-aos-delay="2450"] [data-aos]{transition-delay:0}[data-aos][data-aos][data-aos-delay="2450"].aos-animate,body[data-aos-delay="2450"] [data-aos].aos-animate{transition-delay:2.45s}[data-aos][data-aos][data-aos-duration="2500"],body[data-aos-duration="2500"] [data-aos]{transition-duration:2.5s}[data-aos][data-aos][data-aos-delay="2500"],body[data-aos-delay="2500"] [data-aos]{transition-delay:0}[data-aos][data-aos][data-aos-delay="2500"].aos-animate,body[data-aos-delay="2500"] [data-aos].aos-animate{transition-delay:2.5s}[data-aos][data-aos][data-aos-duration="2550"],body[data-aos-duration="2550"] [data-aos]{transition-duration:2.55s}[data-aos][data-aos][data-aos-delay="2550"],body[data-aos-delay="2550"] [data-aos]{transition-delay:0}[data-aos][data-aos][data-aos-delay="2550"].aos-animate,body[data-aos-delay="2550"] [data-aos].aos-animate{transition-delay:2.55s}[data-aos][data-aos][data-aos-duration="2600"],body[data-aos-duration="2600"] [data-aos]{transition-duration:2.6s}[data-aos][data-aos][data-aos-delay="2600"],body[data-aos-delay="2600"] [data-aos]{transition-delay:0}[data-aos][data-aos][data-aos-delay="2600"].aos-animate,body[data-aos-delay="2600"] [data-aos].aos-animate{transition-delay:2.6s}[data-aos][data-aos][data-aos-duration="2650"],body[data-aos-duration="2650"] [data-aos]{transition-duration:2.65s}[data-aos][data-aos][data-aos-delay="2650"],body[data-aos-delay="2650"] [data-aos]{transition-delay:0}[data-aos][data-aos][data-aos-delay="2650"].aos-animate,body[data-aos-delay="2650"] [data-aos].aos-animate{transition-delay:2.65s}[data-aos][data-aos][data-aos-duration="2700"],body[data-aos-duration="2700"] [data-aos]{transition-duration:2.7s}[data-aos][data-aos][data-aos-delay="2700"],body[data-aos-delay="2700"] [data-aos]{transition-delay:0}[data-aos][data-aos][data-aos-delay="2700"].aos-animate,body[data-aos-delay="2700"] [data-aos].aos-animate{transition-delay:2.7s}[data-aos][data-aos][data-aos-duration="2750"],body[data-aos-duration="2750"] [data-aos]{transition-duration:2.75s}[data-aos][data-aos][data-aos-delay="2750"],body[data-aos-delay="2750"] [data-aos]{transition-delay:0}[data-aos][data-aos][data-aos-delay="2750"].aos-animate,body[data-aos-delay="2750"] [data-aos].aos-animate{transition-delay:2.75s}[data-aos][data-aos][data-aos-duration="2800"],body[data-aos-duration="2800"] [data-aos]{transition-duration:2.8s}[data-aos][data-aos][data-aos-delay="2800"],body[data-aos-delay="2800"] [data-aos]{transition-delay:0}[data-aos][data-aos][data-aos-delay="2800"].aos-animate,body[data-aos-delay="2800"] [data-aos].aos-animate{transition-delay:2.8s}[data-aos][data-aos][data-aos-duration="2850"],body[data-aos-duration="2850"] [data-aos]{transition-duration:2.85s}[data-aos][data-aos][data-aos-delay="2850"],body[data-aos-delay="2850"] [data-aos]{transition-delay:0}[data-aos][data-aos][data-aos-delay="2850"].aos-animate,body[data-aos-delay="2850"] [data-aos].aos-animate{transition-delay:2.85s}[data-aos][data-aos][data-aos-duration="2900"],body[data-aos-duration="2900"] [data-aos]{transition-duration:2.9s}[data-aos][data-aos][data-aos-delay="2900"],body[data-aos-delay="2900"] [data-aos]{transition-delay:0}[data-aos][data-aos][data-aos-delay="2900"].aos-animate,body[data-aos-delay="2900"] [data-aos].aos-animate{transition-delay:2.9s}[data-aos][data-aos][data-aos-duration="2950"],body[data-aos-duration="2950"] [data-aos]{transition-duration:2.95s}[data-aos][data-aos][data-aos-delay="2950"],body[data-aos-delay="2950"] [data-aos]{transition-delay:0}[data-aos][data-aos][data-aos-delay="2950"].aos-animate,body[data-aos-delay="2950"] [data-aos].aos-animate{transition-delay:2.95s}[data-aos][data-aos][data-aos-duration="3000"],body[data-aos-duration="3000"] [data-aos]{transition-duration:3s}[data-aos][data-aos][data-aos-delay="3000"],body[data-aos-delay="3000"] [data-aos]{transition-delay:0}[data-aos][data-aos][data-aos-delay="3000"].aos-animate,body[data-aos-delay="3000"] [data-aos].aos-animate{transition-delay:3s}[data-aos][data-aos][data-aos-easing=linear],body[data-aos-easing=linear] [data-aos]{transition-timing-function:cubic-bezier(.25,.25,.75,.75)}[data-aos][data-aos][data-aos-easing=ease],body[data-aos-easing=ease] [data-aos]{transition-timing-function:ease}[data-aos][data-aos][data-aos-easing=ease-in],body[data-aos-easing=ease-in] [data-aos]{transition-timing-function:ease-in}[data-aos][data-aos][data-aos-easing=ease-out],body[data-aos-easing=ease-out] [data-aos]{transition-timing-function:ease-out}[data-aos][data-aos][data-aos-easing=ease-in-out],body[data-aos-easing=ease-in-out] [data-aos]{transition-timing-function:ease-in-out}[data-aos][data-aos][data-aos-easing=ease-in-back],body[data-aos-easing=ease-in-back] [data-aos]{transition-timing-function:cubic-bezier(.6,-.28,.735,.045)}[data-aos][data-aos][data-aos-easing=ease-out-back],body[data-aos-easing=ease-out-back] [data-aos]{transition-timing-function:cubic-bezier(.175,.885,.32,1.275)}[data-aos][data-aos][data-aos-easing=ease-in-out-back],body[data-aos-easing=ease-in-out-back] [data-aos]{transition-timing-function:cubic-bezier(.68,-.55,.265,1.55)}[data-aos][data-aos][data-aos-easing=ease-in-sine],body[data-aos-easing=ease-in-sine] [data-aos]{transition-timing-function:cubic-bezier(.47,0,.745,.715)}[data-aos][data-aos][data-aos-easing=ease-out-sine],body[data-aos-easing=ease-out-sine] [data-aos]{transition-timing-function:cubic-bezier(.39,.575,.565,1)}[data-aos][data-aos][data-aos-easing=ease-in-out-sine],body[data-aos-easing=ease-in-out-sine] [data-aos]{transition-timing-function:cubic-bezier(.445,.05,.55,.95)}[data-aos][data-aos][data-aos-easing=ease-in-quad],body[data-aos-easing=ease-in-quad] [data-aos]{transition-timing-function:cubic-bezier(.55,.085,.68,.53)}[data-aos][data-aos][data-aos-easing=ease-out-quad],body[data-aos-easing=ease-out-quad] [data-aos]{transition-timing-function:cubic-bezier(.25,.46,.45,.94)}[data-aos][data-aos][data-aos-easing=ease-in-out-quad],body[data-aos-easing=ease-in-out-quad] [data-aos]{transition-timing-function:cubic-bezier(.455,.03,.515,.955)}[data-aos][data-aos][data-aos-easing=ease-in-cubic],body[data-aos-easing=ease-in-cubic] [data-aos]{transition-timing-function:cubic-bezier(.55,.085,.68,.53)}[data-aos][data-aos][data-aos-easing=ease-out-cubic],body[data-aos-easing=ease-out-cubic] [data-aos]{transition-timing-function:cubic-bezier(.25,.46,.45,.94)}[data-aos][data-aos][data-aos-easing=ease-in-out-cubic],body[data-aos-easing=ease-in-out-cubic] [data-aos]{transition-timing-function:cubic-bezier(.455,.03,.515,.955)}[data-aos][data-aos][data-aos-easing=ease-in-quart],body[data-aos-easing=ease-in-quart] [data-aos]{transition-timing-function:cubic-bezier(.55,.085,.68,.53)}[data-aos][data-aos][data-aos-easing=ease-out-quart],body[data-aos-easing=ease-out-quart] [data-aos]{transition-timing-function:cubic-bezier(.25,.46,.45,.94)}[data-aos][data-aos][data-aos-easing=ease-in-out-quart],body[data-aos-easing=ease-in-out-quart] [data-aos]{transition-timing-function:cubic-bezier(.455,.03,.515,.955)}[data-aos^=fade][data-aos^=fade]{opacity:0;transition-property:opacity,transform}[data-aos^=fade][data-aos^=fade].aos-animate{opacity:1;transform:translateZ(0)}[data-aos=fade-up]{transform:translate3d(0,100px,0)}[data-aos=fade-down]{transform:translate3d(0,-100px,0)}[data-aos=fade-right]{transform:translate3d(-100px,0,0)}[data-aos=fade-left]{transform:translate3d(100px,0,0)}[data-aos=fade-up-right]{transform:translate3d(-100px,100px,0)}[data-aos=fade-up-left]{transform:translate3d(100px,100px,0)}[data-aos=fade-down-right]{transform:translate3d(-100px,-100px,0)}[data-aos=fade-down-left]{transform:translate3d(100px,-100px,0)}[data-aos^=zoom][data-aos^=zoom]{opacity:0;transition-property:opacity,transform}[data-aos^=zoom][data-aos^=zoom].aos-animate{opacity:1;transform:translateZ(0) scale(1)}[data-aos=zoom-in]{transform:scale(.6)}[data-aos=zoom-in-up]{transform:translate3d(0,100px,0) scale(.6)}[data-aos=zoom-in-down]{transform:translate3d(0,-100px,0) scale(.6)}[data-aos=zoom-in-right]{transform:translate3d(-100px,0,0) scale(.6)}[data-aos=zoom-in-left]{transform:translate3d(100px,0,0) scale(.6)}[data-aos=zoom-out]{transform:scale(1.2)}[data-aos=zoom-out-up]{transform:translate3d(0,100px,0) scale(1.2)}[data-aos=zoom-out-down]{transform:translate3d(0,-100px,0) scale(1.2)}[data-aos=zoom-out-right]{transform:translate3d(-100px,0,0) scale(1.2)}[data-aos=zoom-out-left]{transform:translate3d(100px,0,0) scale(1.2)}[data-aos^=slide][data-aos^=slide]{transition-property:transform}[data-aos^=slide][data-aos^=slide].aos-animate{transform:translateZ(0)}[data-aos=slide-up]{transform:translate3d(0,100%,0)}[data-aos=slide-down]{transform:translate3d(0,-100%,0)}[data-aos=slide-right]{transform:translate3d(-100%,0,0)}[data-aos=slide-left]{transform:translate3d(100%,0,0)}[data-aos^=flip][data-aos^=flip]{backface-visibility:hidden;transition-property:transform}[data-aos=flip-left]{transform:perspective(2500px) rotateY(-100deg)}[data-aos=flip-left].aos-animate{transform:perspective(2500px) rotateY(0)}[data-aos=flip-right]{transform:perspective(2500px) rotateY(100deg)}[data-aos=flip-right].aos-animate{transform:perspective(2500px) rotateY(0)}[data-aos=flip-up]{transform:perspective(2500px) rotateX(-100deg)}[data-aos=flip-up].aos-animate{transform:perspective(2500px) rotateX(0)}[data-aos=flip-down]{transform:perspective(2500px) rotateX(100deg)}[data-aos=flip-down].aos-animate{transform:perspective(2500px) rotateX(0)}